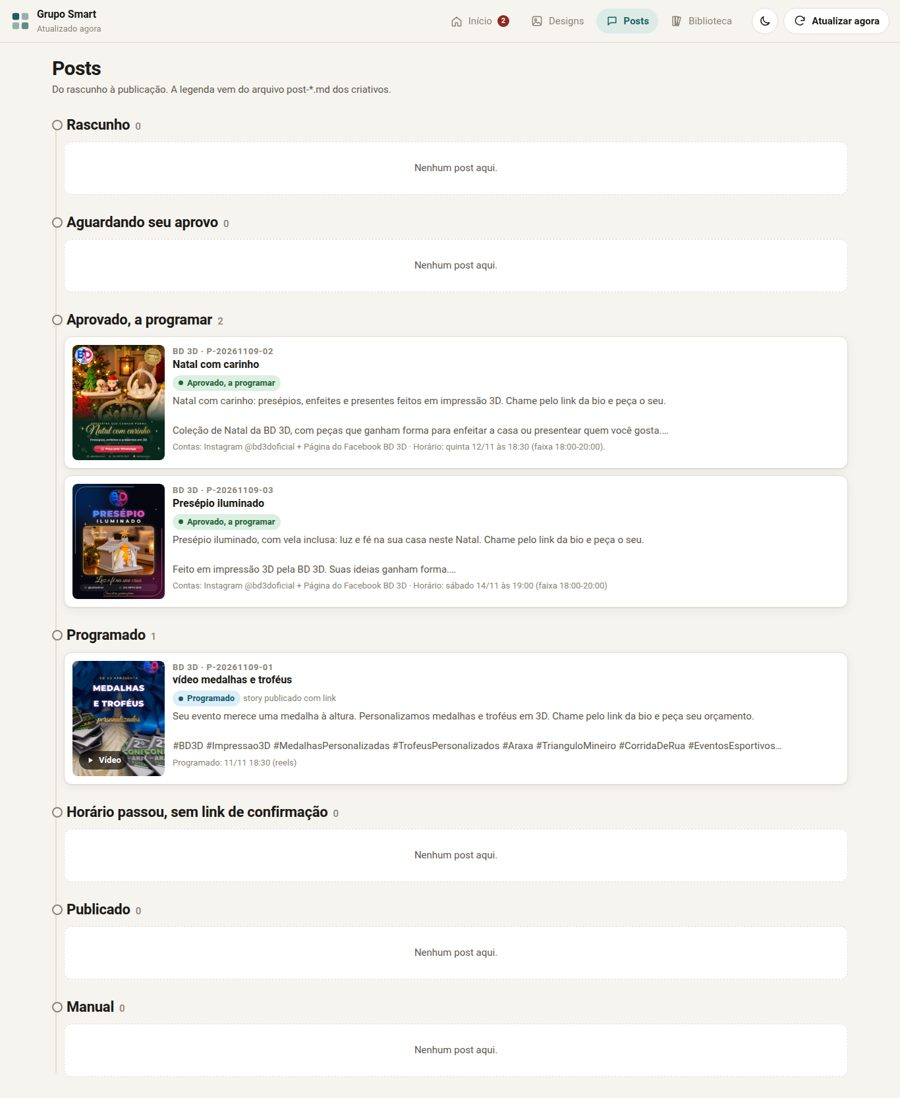
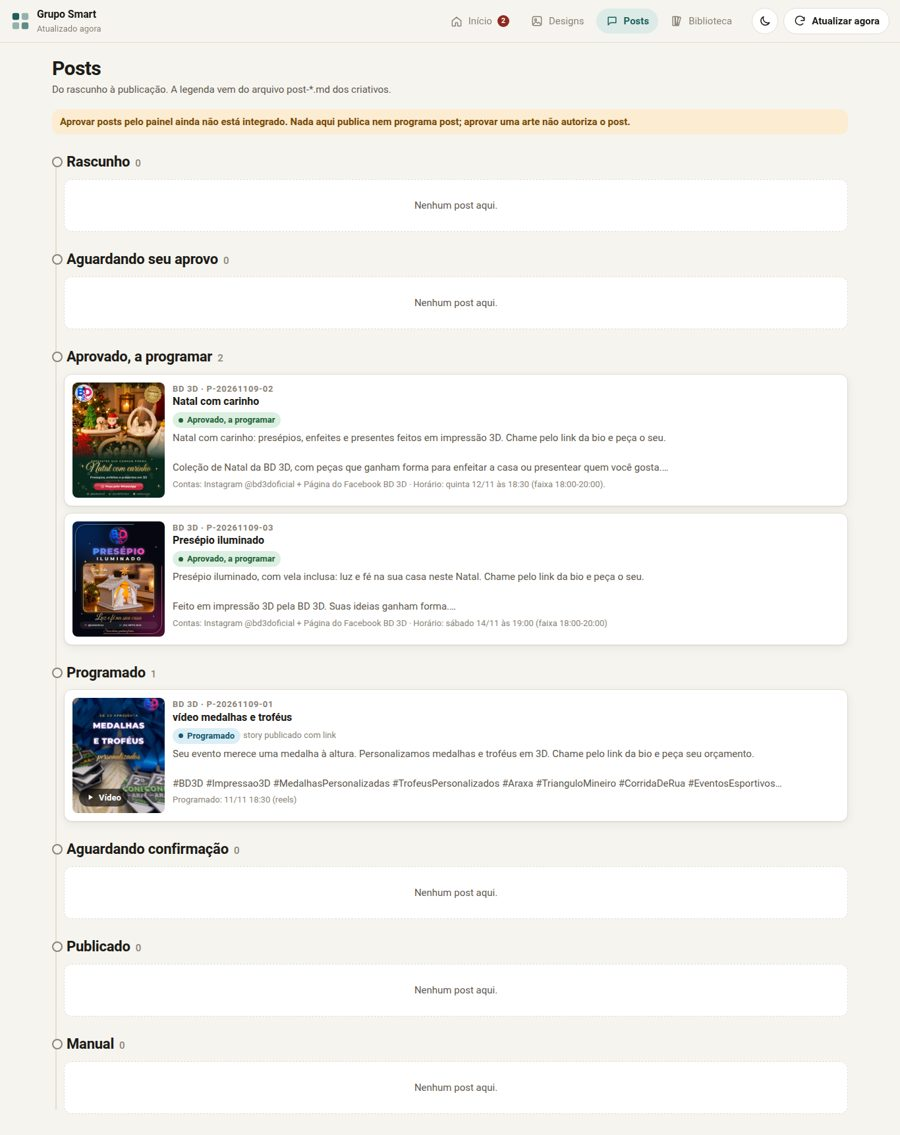
Decisões de post marcadas como integração pendente
- servidor recusa post:<id> (POSTS_INTEGRADOS = false) até o fluxo do Tráfego
- aviso em Início e Posts: nada publica; aprovar arte não autoriza post

diff --git a/src/App.html b/src/App.html
@@ -151,7 +151,7 @@
       cont(parados.length, 'Ajustes parados há mais de 2 dias', '#sec-parados', true) + cont(pend.length, 'Decisões aguardando o agente', '#sec-enviadas', false) + '</div>';
     h += '<h2 id="sec-entregues">Artes para aprovar <span class="qtd">' + entregues.length + '</span></h2>' +
       (entregues.length ? '<div class="grade duas">' + entregues.map(function (x) { return cartaoDesign(x, true); }).join('') + '</div>' : '<div class="vazio">Nenhuma arte esperando aprovação.</div>');
-    h += '<h2 id="sec-posts">Posts aguardando você <span class="qtd">' + posts.length + '</span></h2>' +
+    h += '<h2 id="sec-posts">Posts aguardando você <span class="qtd">' + posts.length + '</span></h2>' + '<p class="intro aviso-integracao">Aprovar posts pelo painel ainda não está integrado. Nada aqui publica nem programa post; aprovar uma arte não autoriza o post.</p>' +
       (posts.length ? posts.map(cartaoPost).join('') : '<div class="vazio">Todo rascunho de post já tem destino.</div>');
     if (semConf.length) h += '<h2 id="sec-confirmacao">Horário passou, sem link de confirmação <span class="qtd">' + semConf.length + '</span></h2><p class="intro">O painel não considera publicado só pelo relógio. Falta o agente registrar o link.</p>' + semConf.map(cartaoPost).join('');
     h += '<h2 id="sec-parados">Ajustes parados há mais de 2 dias <span class="qtd">' + parados.length + '</span></h2>' +
@@ -216,7 +216,7 @@
 
   function desenharPosts() {
     var d = estado.dados;
-    var h = '<h1>Posts</h1><p class="intro">Do rascunho à publicação. A legenda vem do arquivo post-*.md dos criativos.</p><div class="linha-tempo">';
+    var h = '<h1>Posts</h1><p class="intro">Do rascunho à publicação. A legenda vem do arquivo post-*.md dos criativos.</p>' + '<p class="intro aviso-integracao">Aprovar posts pelo painel ainda não está integrado. Nada aqui publica nem programa post; aprovar uma arte não autoriza o post.</p>' + '<div class="linha-tempo">';
     ORDEM_POSTS.forEach(function (e) {
       var l = d.posts.filter(function (p) { return p.estado === e; });
       h += '<h2>' + esc(ROTULO_POSTS[e]) + ' <span class="qtd">' + l.length + '</span></h2>' + (l.length ? l.map(cartaoPost).join('') : '<div class="vazio">Nenhum post aqui.</div>');

diff --git a/test/lib.test.js b/test/lib.test.js
@@ -179,7 +179,9 @@ test('conferirDecisao: aceita a versão exibida e rejeita obsoleta, estado errad
   assert.throws(() => L.conferirDecisao(m, { item_id: 'P-20261111-01', snapshot_hash: aprovado.snapshot_hash }), /não aceita/);
   assert.throws(() => L.conferirDecisao(m, { item_id: 'P-99999999-99', snapshot_hash: d.snapshot_hash }), /não existe/);
   const p3 = m.posts.find((x) => x.id === 'P-20261109-03');
-  assert.throws(() => L.conferirDecisao(m, { item_id: 'post:P-20261109-03', snapshot_hash: p3.snapshot_hash }), /não aceita/);
+  assert.throws(() => L.conferirDecisao(m, { item_id: 'post:P-20261109-03', snapshot_hash: p3.snapshot_hash }), /não está integrada/);
+  const pr = m.posts.find((x) => x.estado === 'aguardando_aprovo' || x.estado === 'rascunho');
+  if (pr) assert.throws(() => L.conferirDecisao(m, { item_id: 'post:' + pr.id, snapshot_hash: pr.snapshot_hash }), /não está integrada/);
   const m2 = L.montarModelo(fontesReais(), [{ id: 'D-9', item_id: 'P-20261111-02', snapshot_hash: d.snapshot_hash, decisao: 'aprovar' }], AGORA);
   assert.throws(() => L.conferirDecisao(m2, { item_id: 'P-20261111-02', snapshot_hash: d.snapshot_hash }), /já existe/);
 });

diff --git a/src/Styles.html b/src/Styles.html
@@ -235,4 +235,5 @@ h2 .qtd { font-size: var(--text-sm); color: var(--texto-3); font-weight: 500; }
 
 .aviso-flutuante { position: fixed; left: 50%; bottom: calc(88px + env(safe-area-inset-bottom)); transform: translateX(-50%); z-index: 60; padding: 10px 16px; border-radius: var(--r-md); width: max-content; max-width: min(92vw, 520px); text-align: center; background: var(--texto); color: var(--fundo); font-size: var(--text-sm); font-weight: 600; box-shadow: var(--sombra); max-width: calc(100% - 32px); }
 @media (min-width: 900px) { .aviso-flutuante { bottom: 24px; } }
+.intro.aviso-integracao { background: var(--e-entregue-bg); color: var(--e-entregue); padding: 8px 12px; border-radius: var(--r-md); font-weight: 600; }
 </style>

diff --git a/README.md b/README.md
@@ -140,6 +140,10 @@ Nos posts, `legenda`, `hashtags`, `contas` e `horario` vêm do `post-<id>.md` (l
 - Antes de aplicar, o agente confere a versão atual: recalcula o hash ou, no mínimo, compara `versao` e `arte_fileId` com os arquivos. Se mudou, grava `rejeitado` com o motivo e não aplica.
 - Linha sem recibo = pendente. Recibo inválido ou repetido vira aviso no topo do painel.
 
+### Posts: integração pendente
+
+Decisões de post (`post:<id>`) ainda não têm consumidor. A tela não oferece botões de aprovação de post e o servidor recusa qualquer `post:<id>` (`POSTS_INTEGRADOS = false` em `Lib.gs`) até o fluxo do Gestor de Tráfego ficar pronto. Aprovar uma arte nunca autoriza o post.
+
 ### Publicado
 
 O painel nunca deduz "publicado" pelo relógio. Programado com horário vencido e sem `post:<link>` aparece como **Aguardando confirmação** em Início e em Posts, até o agente registrar o link.
